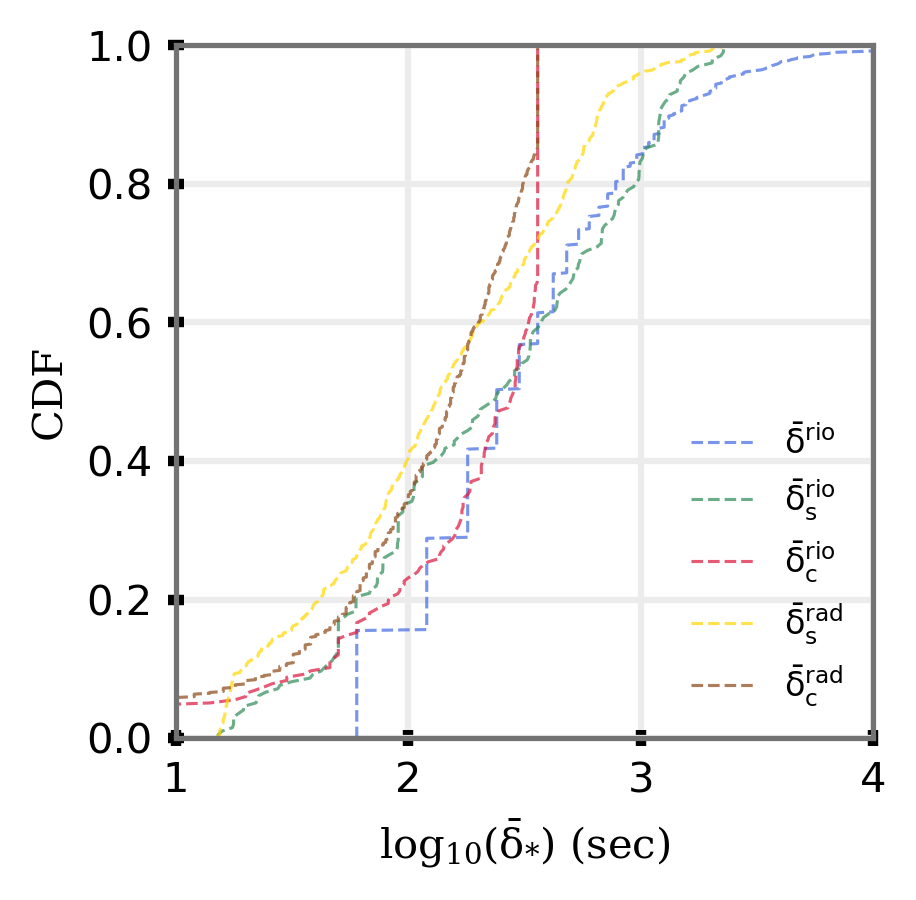
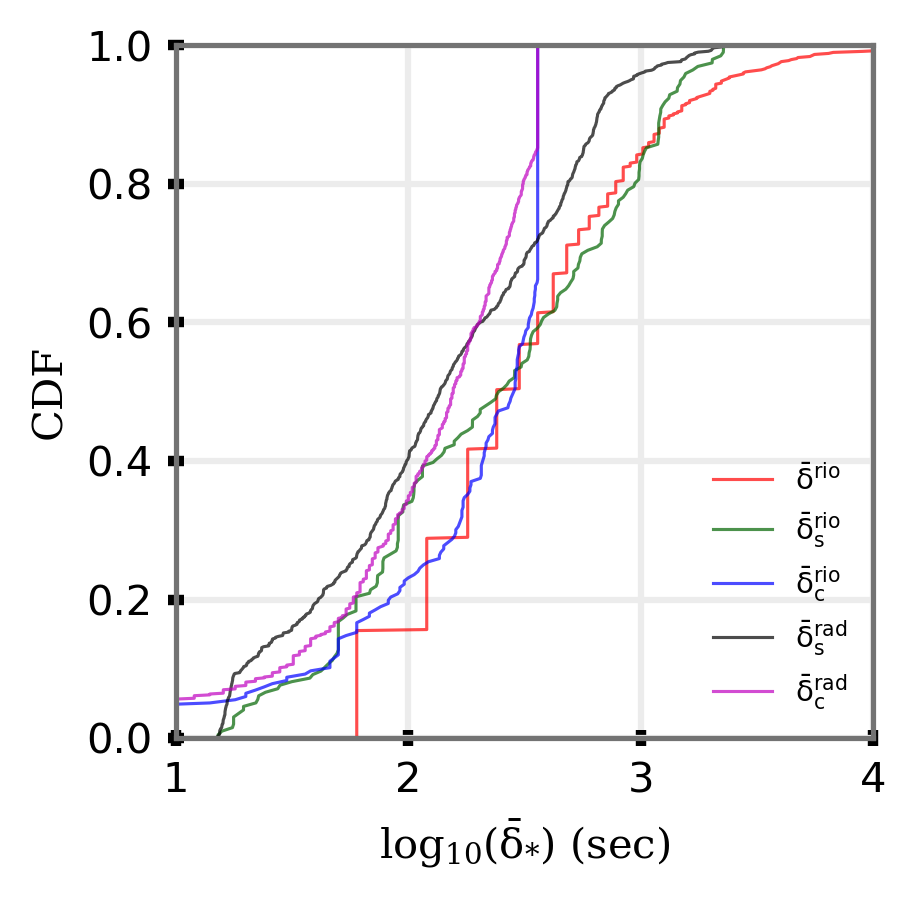
Sim. Start

diff --git a/plot.py b/plot.py
@@ -504,15 +504,18 @@ def plot_rio_ala(gos, riom, fslope, rslope, start, end,  fname):
 
 def plot_cdf():
     from scipy.stats import kstest
+    import scipy.stats as stats
     files = ["csv/rio_c0.csv", "csv/rio_c1.csv", "csv/rio_c2.csv", "csv/rad_c1.csv", "csv/rad_c2.csv"]
     labels = [r"$\bar{\delta}^{rio}$", r"$\bar{\delta}_{s}^{rio}$", r"$\bar{\delta}_{c}^{rio}$",
             r"$\bar{\delta}_{s}^{rad}$", r"$\bar{\delta}_{c}^{rad}$"]
     fig, ax = plt.subplots(figsize=(3,3),nrows=1,ncols=1,dpi=90)
+    C = ["r", "darkgreen", "blue", "black", "m"]
     for l, f in enumerate(files):
         dat = pd.read_csv(f)
+        dat = dat[np.abs(dat.dt)>0]
         x = np.log10(np.abs(dat.dt))
         x, y = sorted(x), np.arange(len(x)) / len(x)
-        ax.plot(x, y, ls="--", lw=0.75, alpha=0.7, label=labels[l])
+        ax.plot(x, y, lw=0.75, alpha=0.7, label=labels[l], color=C[l])
         ax.set_xlim(1,4)
         ax.set_ylim(0,1)
         for fu in files:
@@ -520,8 +523,17 @@ def plot_cdf():
             xu = np.log10(np.abs(du.dt))
             xu = sorted(xu)
             print(kstest(x, xu))
-    ax.legend(loc=4, fontsize=8)
+    ax.legend(loc=4, fontsize=7)
     ax.set_xlabel(r"$log_{10}(\bar{\delta}_{*})$ (sec)",fontdict=font)
     ax.set_ylabel(r"CDF",fontdict=font)
+
+    #for l, f in enumerate(files):
+    #    dat = pd.read_csv(f)
+    #    dat = dat[np.abs(dat.dt)>0]
+    #    x = np.log10(np.abs(dat.dt))
+    #    fit_alpha, fit_loc, fit_beta = stats.gamma.fit(x)
+    #    mx = np.linspace(1,4,100)
+    #    ax.plot(mx, stats.gamma.pdf(mx, fit_alpha, fit_loc, fit_beta), lw=0.75, alpha=0.7, label=labels[l])
+    #ax.legend(loc=4, fontsize=8)
     fig.savefig("images/cdf.png", bbox_inches="tight")
     return
